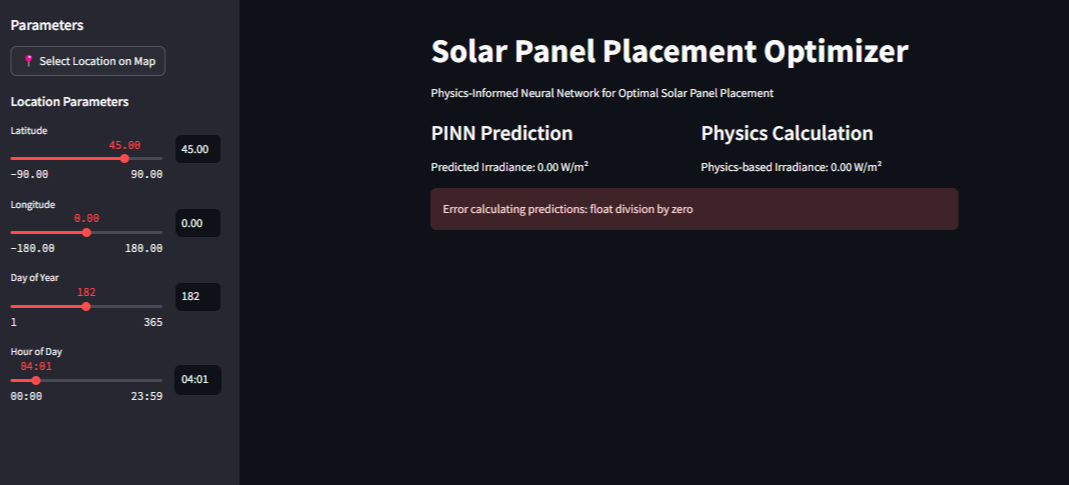
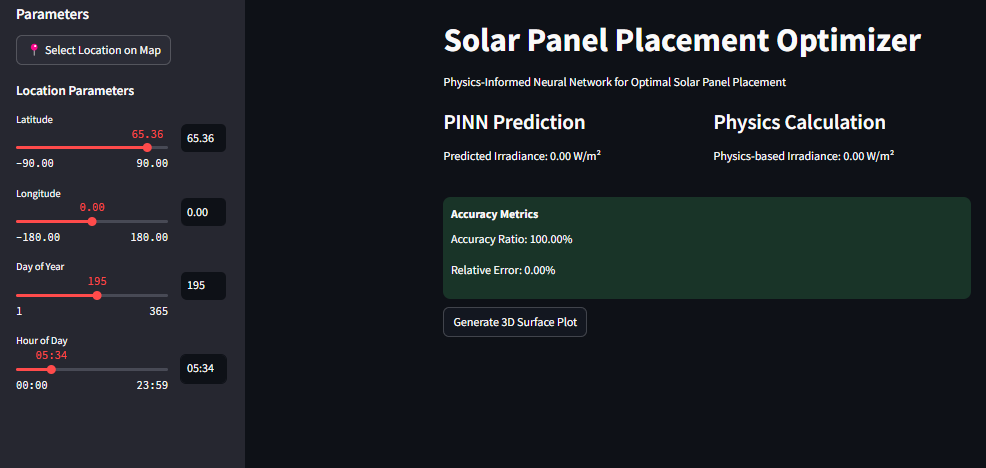
Agent query: Please verify if the irradiance calculations are now working correctly for polar regions: 1. Set latitude to 65.36°N (Alaska), 2. Set the day to summer solstice (day 172), 3. Try early morning hours (around 2-3 AM) - you should see non-zero irradiance values during what would normally b

diff --git a/physics_validator.py b/physics_validator.py
@@ -33,11 +33,15 @@ class SolarPhysicsIdeal:
         # cos(h) = -tan(φ)·tan(δ)
         cos_hour_angle = -torch.tan(lat_rad) * torch.tan(decl_rad)
         
-        # Clamp values to handle edge cases (polar days/nights)
-        cos_hour_angle = torch.clamp(cos_hour_angle, -1, 1)
+        # Identify polar conditions before clamping
+        is_polar_day = cos_hour_angle < -1  # Sun never sets
+        is_polar_night = cos_hour_angle > 1  # Sun never rises
+        
+        # Clamp values for regular calculations
+        cos_hour_angle_clamped = torch.clamp(cos_hour_angle, -1, 1)
         
         # Convert to hour angle in radians
-        hour_angle = torch.arccos(cos_hour_angle)
+        hour_angle = torch.arccos(cos_hour_angle_clamped)
         
         # Convert hour angle to hours
         # Sunrise = 12 - h/15, Sunset = 12 + h/15
@@ -47,14 +51,14 @@ class SolarPhysicsIdeal:
         sunset = 12 + hour_offset
         
         # Handle special cases for polar regions
-        is_polar_day = cos_hour_angle < -1  # Sun never sets
-        is_polar_night = cos_hour_angle > 1  # Sun never rises
+        # For polar day: sunrise = 0, sunset = 24 (all day sunlight)
+        # For polar night: sunrise = inf, sunset = inf (no sunlight)
+        sunrise = torch.where(is_polar_day, torch.zeros_like(sunrise), 
+                            torch.where(is_polar_night, torch.full_like(sunrise, float('inf')), sunrise))
+        sunset = torch.where(is_polar_day, torch.full_like(sunset, 24), 
+                           torch.where(is_polar_night, torch.full_like(sunset, float('inf')), sunset))
         
-        sunrise = torch.where(is_polar_day, torch.zeros_like(sunrise), sunrise)
-        sunset = torch.where(is_polar_day, torch.full_like(sunset, 24), sunset)
-        
-        sunrise = torch.where(is_polar_night, torch.full_like(sunrise, float('inf')), sunrise)
-        sunset = torch.where(is_polar_night, torch.full_like(sunset, float('inf')), sunset)
+        return sunrise, sunset, is_polar_day, is_polar_night
         
         return sunrise, sunset
 
@@ -141,13 +145,13 @@ class SolarPhysicsIdeal:
         day_of_year = torch.floor(time / 24 * 365)
         hour_of_day = time % 24
         
-        # Get sunrise and sunset times
-        sunrise, sunset = self.calculate_sunrise_sunset(latitude, day_of_year)
+        # Get sunrise and sunset times along with polar conditions
+        sunrise, sunset, is_polar_day, is_polar_night = self.calculate_sunrise_sunset(latitude, day_of_year)
         
-        # Check if current time is during daylight hours
-        is_daytime = (hour_of_day >= sunrise) & (hour_of_day <= sunset)
+        # Check if current time is during daylight hours, including polar day condition
+        is_daytime = is_polar_day | ((hour_of_day >= sunrise) & (hour_of_day <= sunset))
         
-        # Calculate solar position and irradiance only during daytime
+        # Calculate solar position regardless of time for polar days
         declination = self.calculate_declination(day_of_year)
         hour_angle = self.calculate_hour_angle(hour_of_day)
         cos_zenith = self.calculate_zenith_angle(latitude, declination, hour_angle)

diff --git a/main.py b/main.py
@@ -152,7 +152,7 @@ def main():
         )
         st.session_state['hour'] = parse_time(
             selected_time)  # Convert to decimal hour
-
+ 
     with hour_col2:
         # Allow user to type directly
         selected_time_input = st.text_input(
